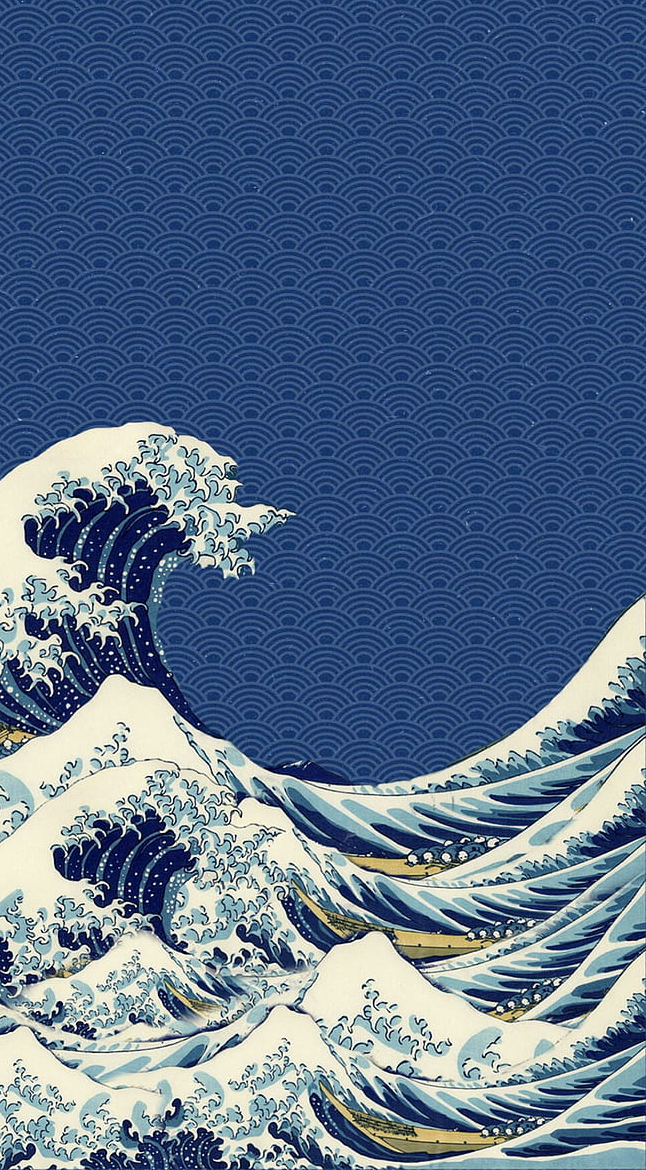
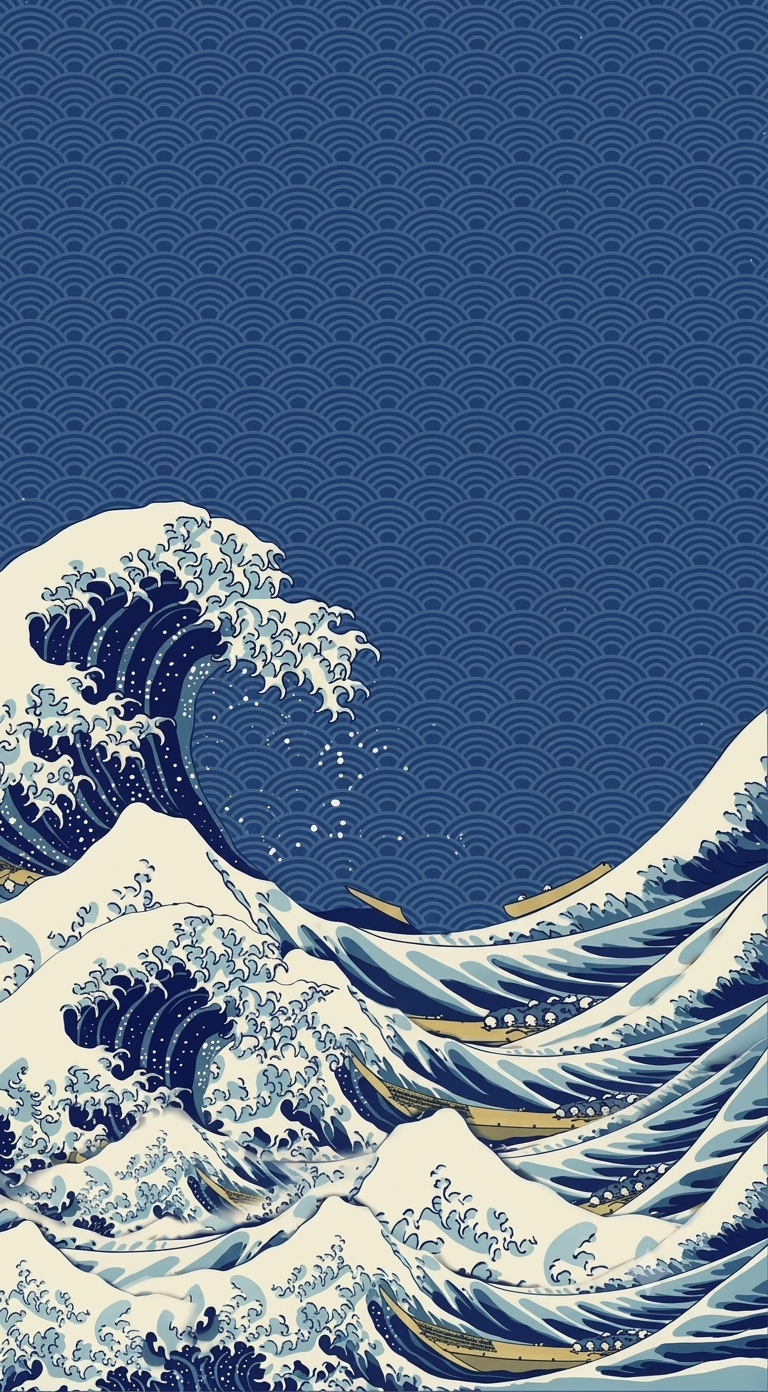
Widget imporvement and image change

Changed region(s): [[0.0, 0.3692, 1.0, 1.0], [0.0, 0.6769, 0.0619, 0.7077], [0.9288, 0.5231, 0.9598, 0.5538]]

diff --git a/constants/images.ts b/constants/images.ts
@@ -1,6 +1,3 @@
 export const BreathingImages = {
-  box: require('@/assets/images/breathing/boxbreathing.png'),
-  sigh: require('@/assets/images/breathing/sighbreathing.png'),
-  fourSevenEight: require('@/assets/images/breathing/fourseveneight.png'),
   phoneBg: require('@/assets/images/breathing/phonebg.png'),
 };
